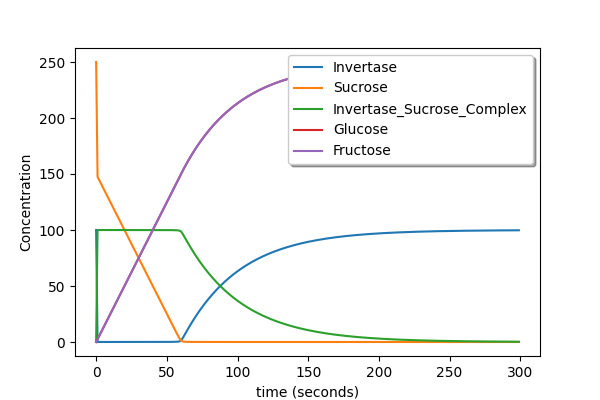
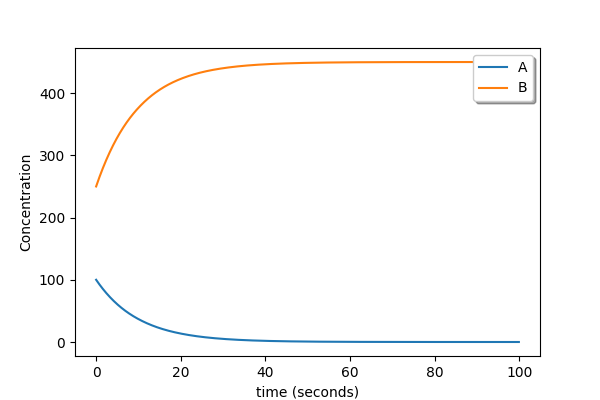
[HOTFIX] Coefficient interpretation

diff --git a/source/base_simulation.py b/source/base_simulation.py
@@ -118,22 +118,24 @@ class Simulation:
             curr_rate_law = rxn_obj.rate_law
 
             # To all of our REACTANTS, subtract the rate law
-            for reactant_id in rxn_obj.reactants:
+            for reactant_id, reactant_info in rxn_obj.reactants.items():
 
                 # Get the index of our species in the equation list
                 spec_idx = self.species_map[reactant_id]
 
                 # Subtract this rate from the current species' differential equation
-                self.eqn_list[spec_idx] = self.eqn_list[spec_idx] - curr_rate_law
+                # Don't forget to account for coefficients
+                self.eqn_list[spec_idx] = self.eqn_list[spec_idx] - curr_rate_law * reactant_info['coefficient']
 
             # To all of our PRODUCTS, add the rate law
-            for product_id in rxn_obj.products:
+            for product_id, product_info in rxn_obj.products.items():
 
                 # Get the index of our species in the equation list
                 spec_idx = self.species_map[product_id]
 
                 # Add this rate to the current species' differential equation
-                self.eqn_list[spec_idx] = self.eqn_list[spec_idx] + curr_rate_law
+                # Don't forget to account for coefficients
+                self.eqn_list[spec_idx] = self.eqn_list[spec_idx] + curr_rate_law * product_info['coefficient']
 
         return self.species_map, self.eqn_list
 
@@ -298,8 +300,8 @@ if __name__ == '__main__':
 
     # ===== Pick any ONE of the following simulations. =====
 
-    # sim.open_json('examples/Easy - 2 Protein Interaction.json')
-    sim.open_json('examples/Medium - Invertase digesting sucrose.json')
+    sim.open_json('examples/Easy - 2 Protein Interaction.json')
+    # sim.open_json('examples/Medium - Invertase digesting sucrose.json')
     # sim.open_json('examples/Hard - Repressilator Circuit.json')
 
     return_json = sim.get_json_solution()

diff --git a/source/base_reaction.py b/source/base_reaction.py
@@ -7,8 +7,8 @@ class Reaction:
         Initializes a reaction
         """
         self.id = None
-        self.reactants = {}
-        self.products = {}
+        self.reactants = {} # {'A': {symbol: <sympy>, coefficient: 1}}
+        self.products = {} # {'B': {symbol: <sympy>, coefficient: 2}}
         self.rate_law = None
         self.params = {}
 
@@ -19,7 +19,12 @@ class Reaction:
         :return: None
         """
         reactant_id = reactant.get_id()
-        self.reactants[reactant_id] = reactant
+        if reactant_id not in self.reactants:
+            self.reactants[reactant_id] = {'symbol': reactant, 'coefficient': 1}
+        else:
+            self.reactants[reactant_id] = {'symbol': reactant, 'coefficient': self.reactants[reactant_id]['coefficient'] + 1}
+
+        print(f'self.reactants: {self.reactants}')
 
     def add_product(self, product):
         """
@@ -28,7 +33,10 @@ class Reaction:
         :return: None
         """
         product_id = product.get_id()
-        self.products[product_id] = product
+        if product_id not in self.products:
+            self.products[product_id] = {'symbol': product, 'coefficient': 1}
+        else:
+            self.products[product_id] = {'symbol': product, 'coefficient': self.products[product_id]['coefficient'] + 1}
 
     def add_parameters(self, param_dict):
         """
@@ -69,7 +77,7 @@ class Reaction:
         # returns a  dictionary item ('Invertase', SymPy symbol for Invertase)
         def get_species_symbols(species_tuple):
             species_id = species_tuple[0]
-            species_obj = species_tuple[1]
+            species_obj = species_tuple[1]['symbol']
             return species_id, species_obj.get_symbol()
 
         # Transforms our self.reactants and self.products into dictionaries mapping their ids to symbols
